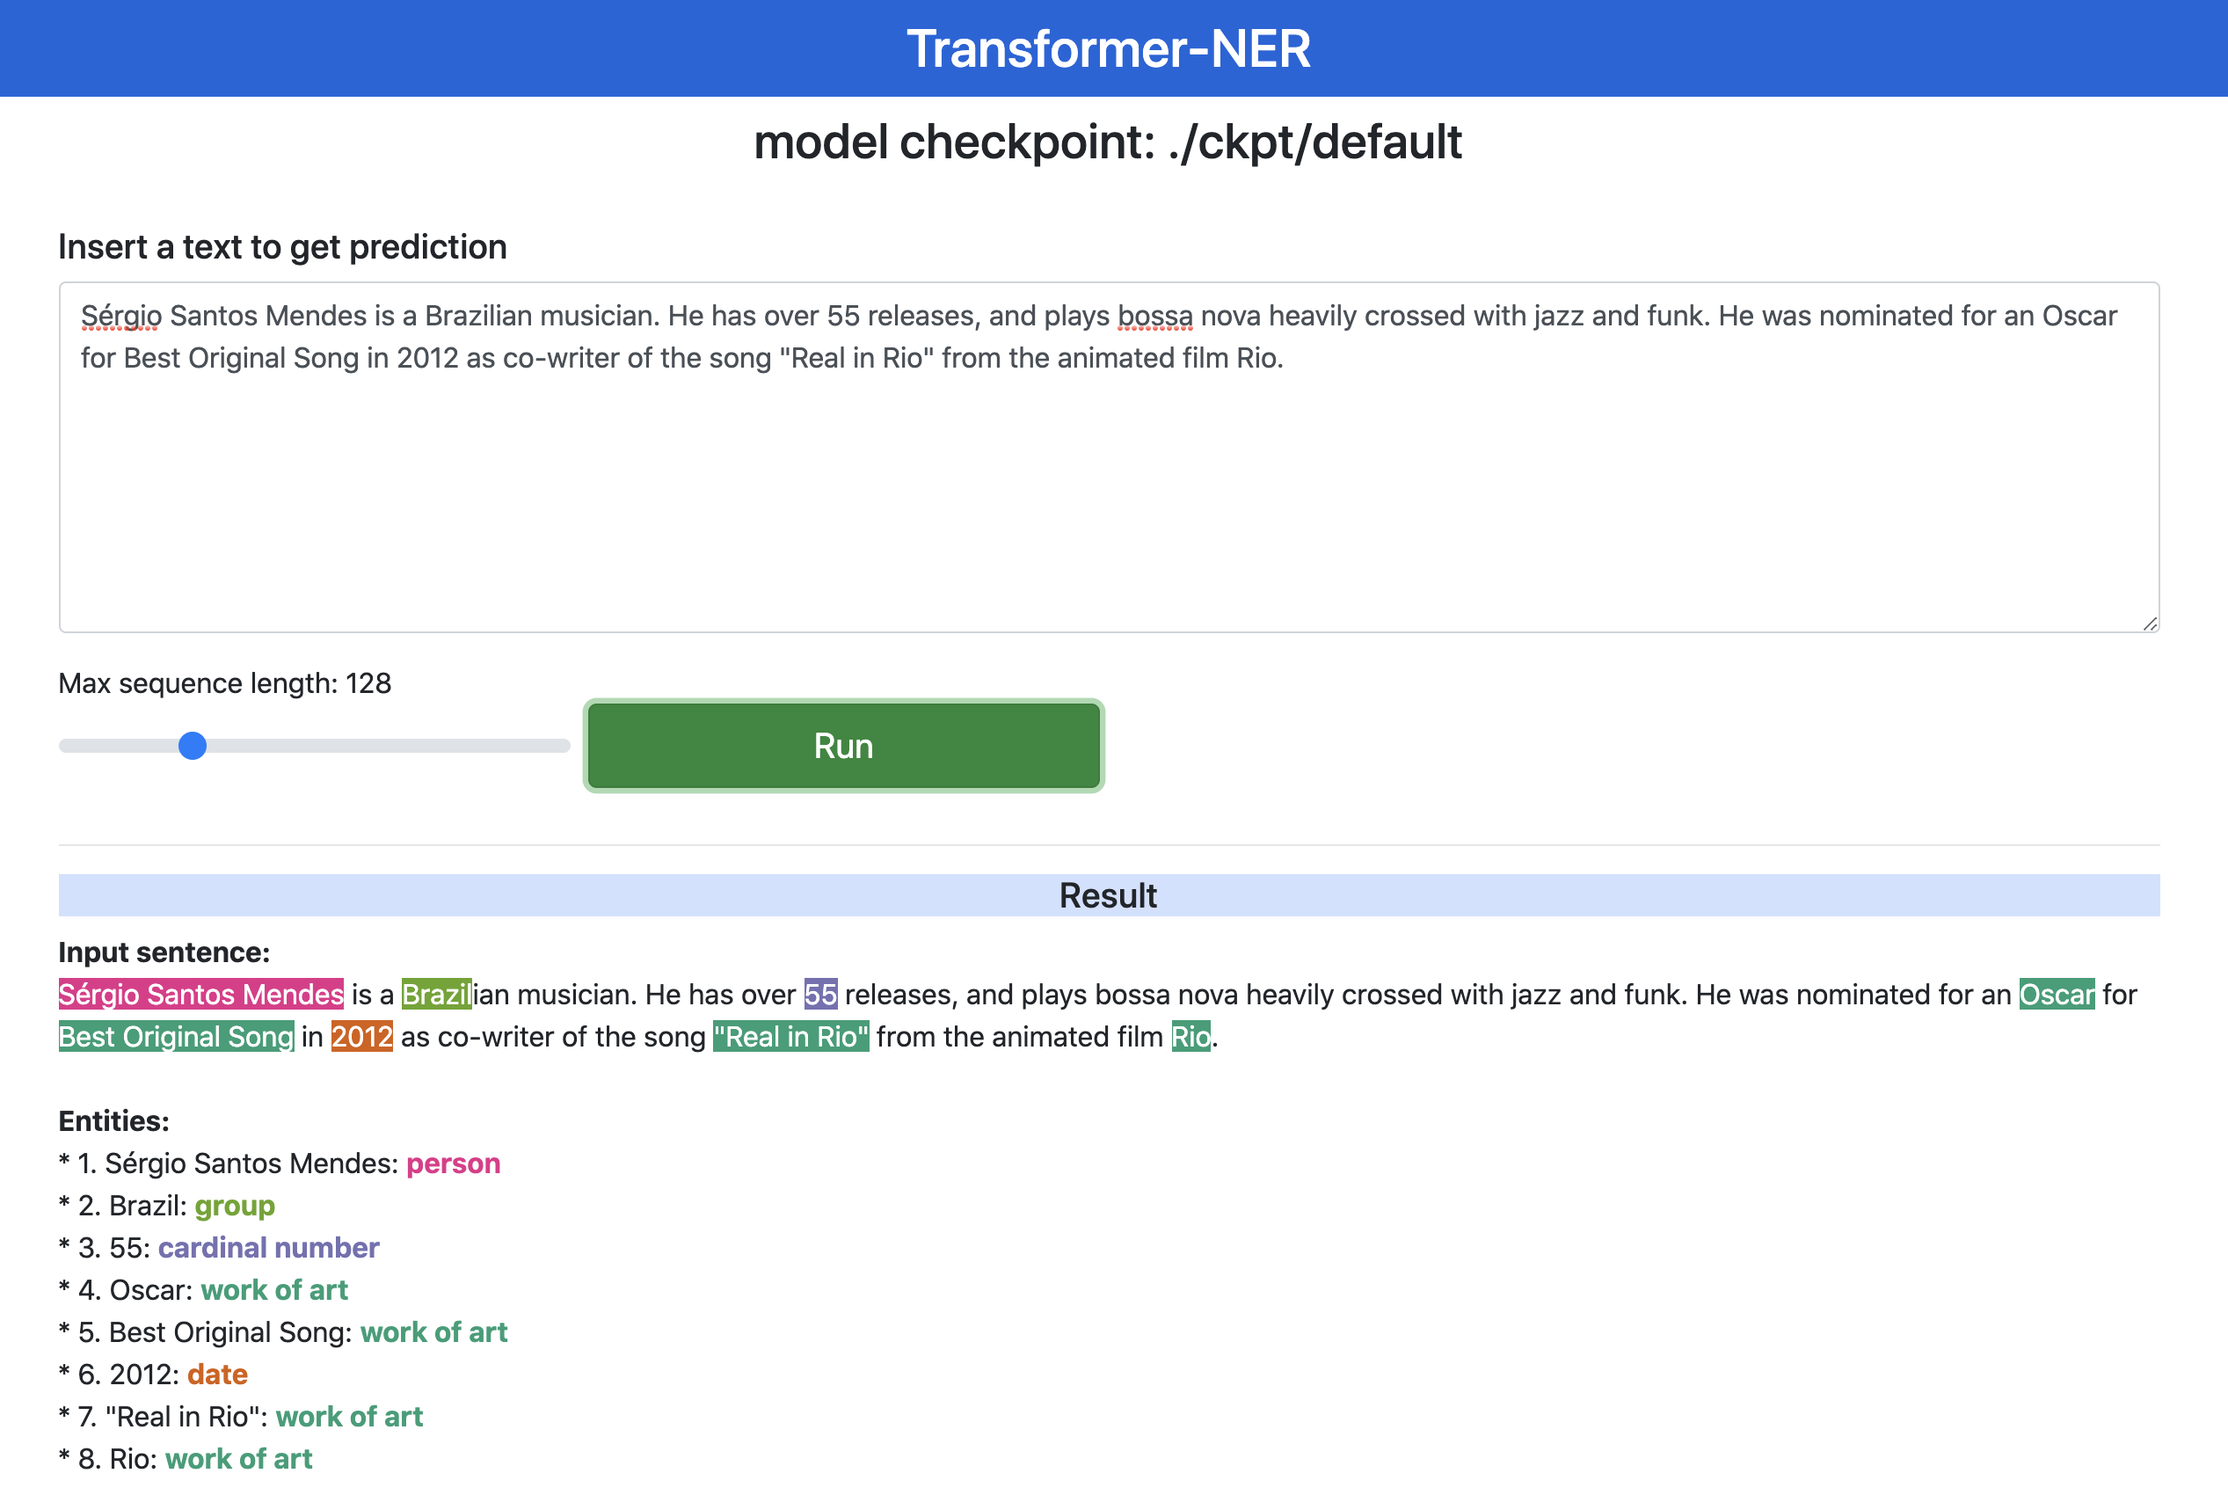
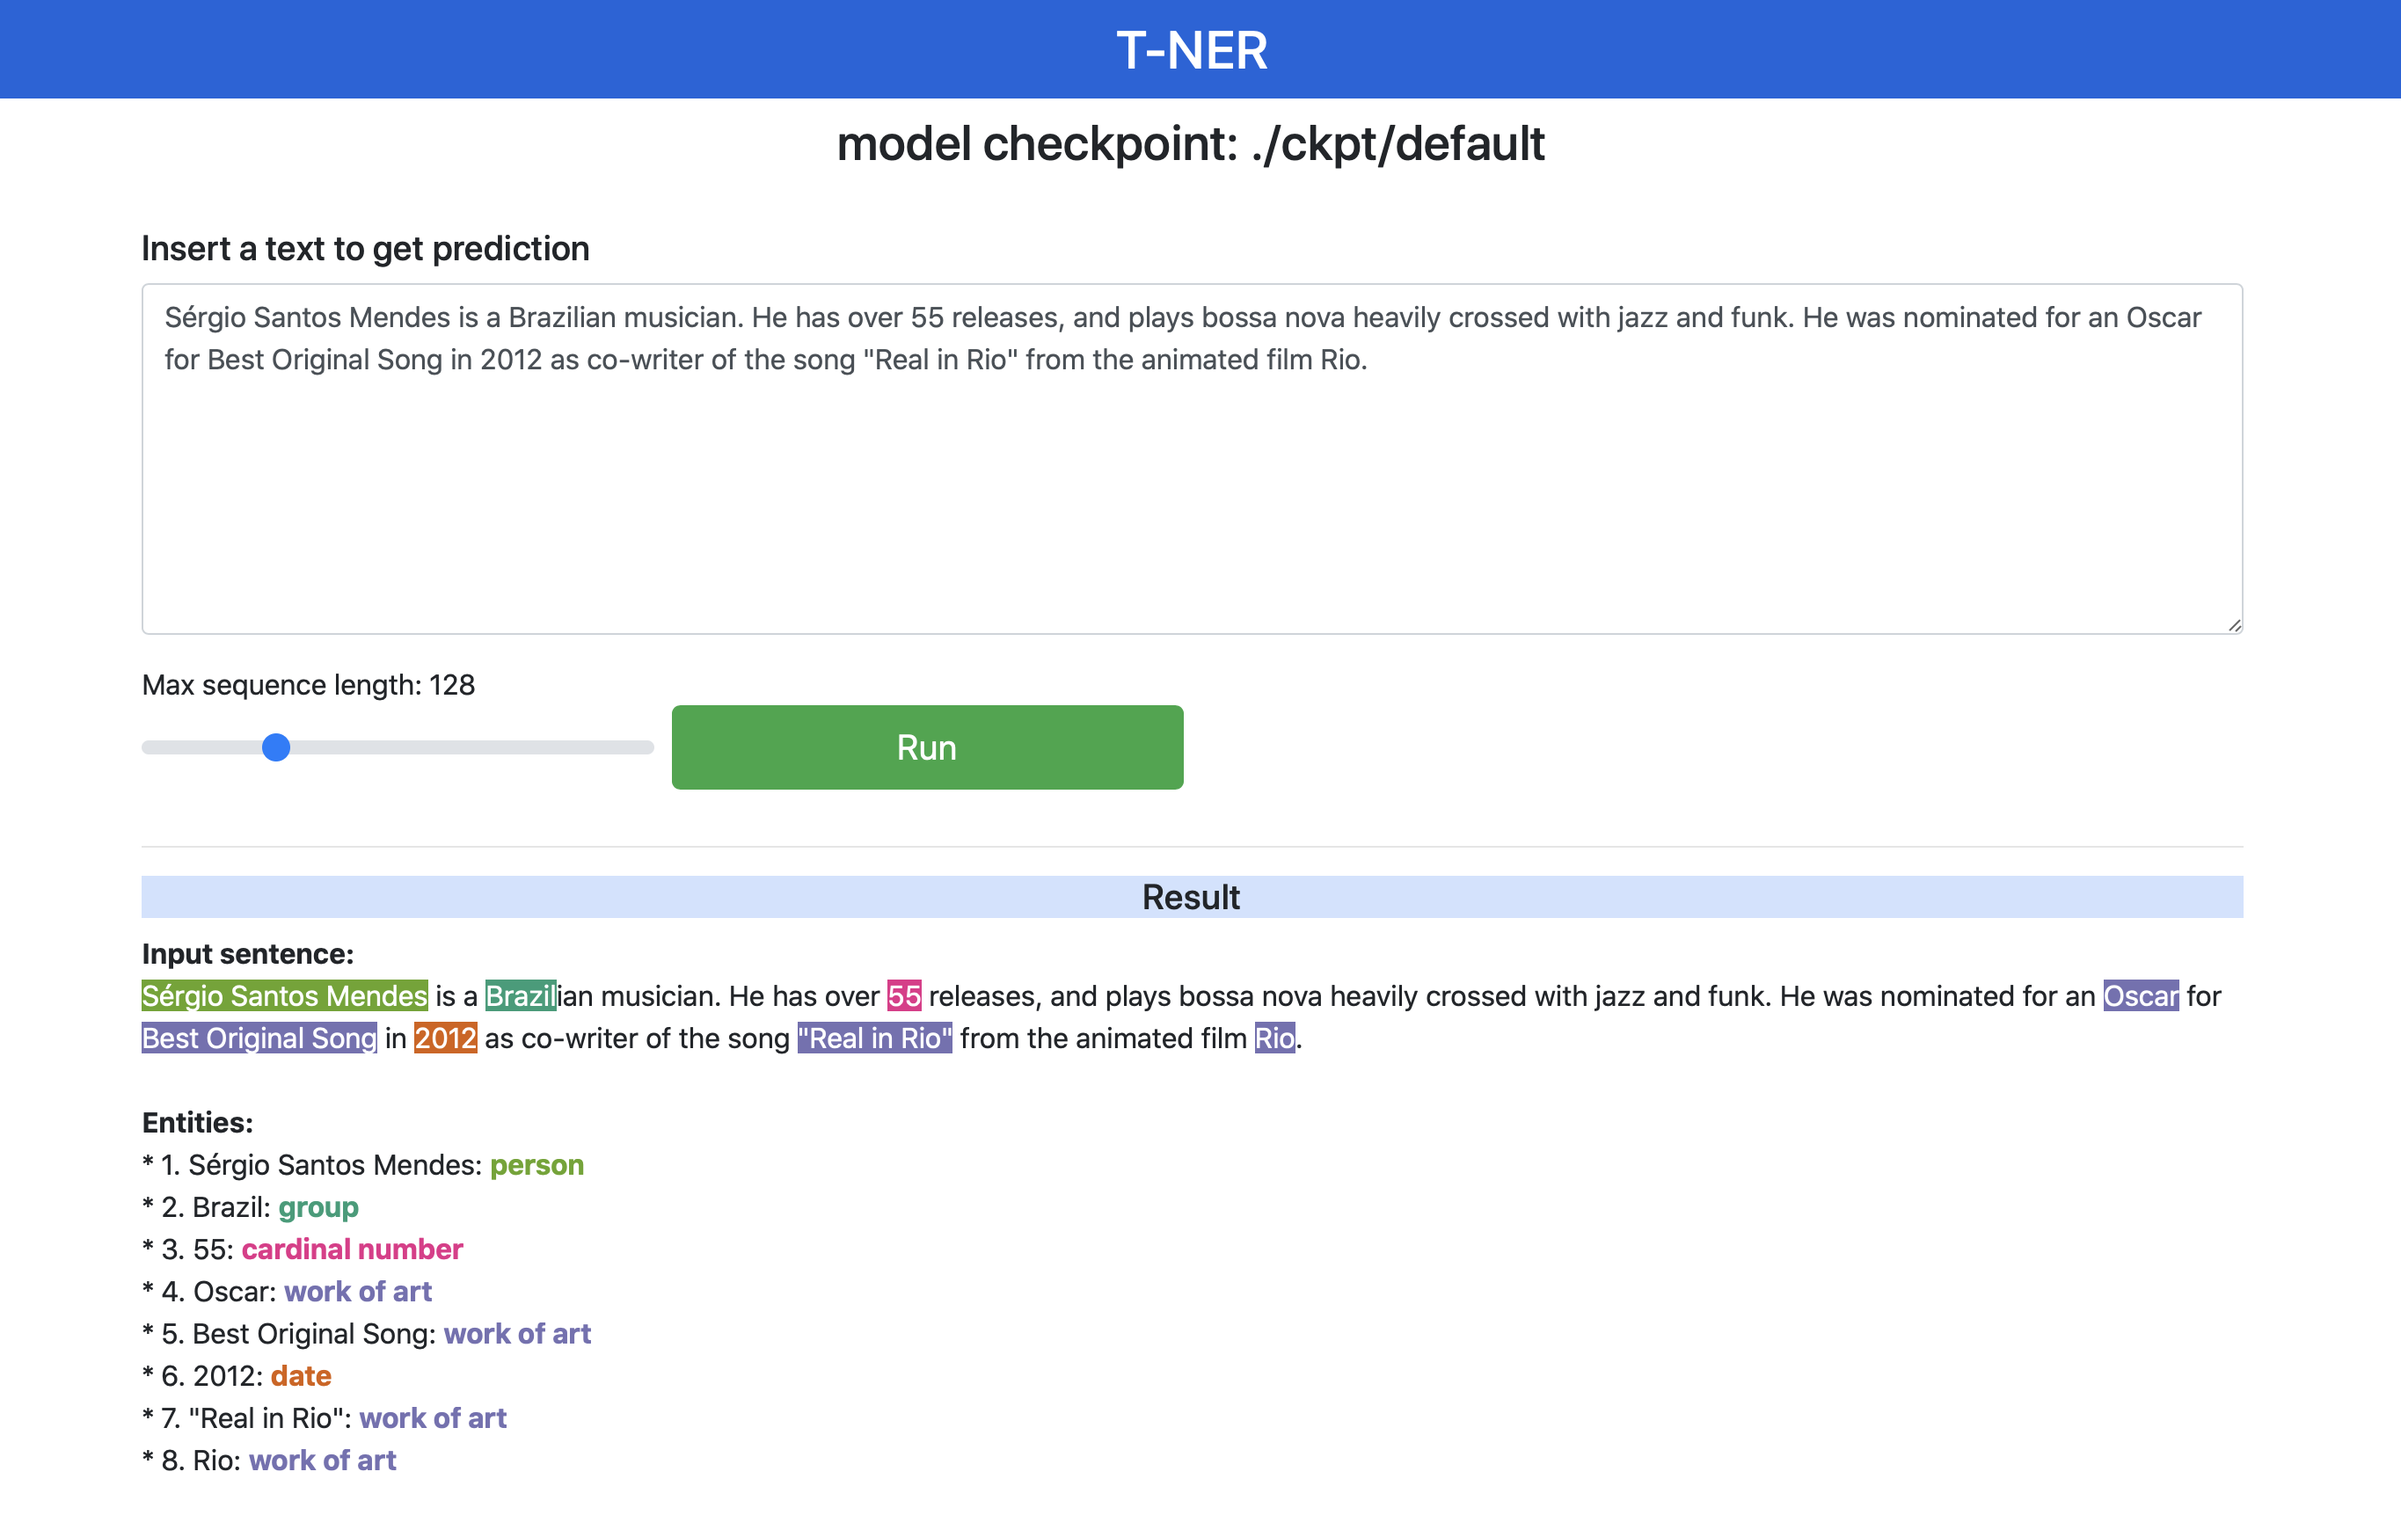
add setup file

diff --git a/templates/index.html b/templates/index.html
@@ -2,7 +2,7 @@
 <html lang="en">
 
 <head>
-    <title> Transformers-NER </title>
+    <title> T-NER </title>
     <meta charset="utf-8">
     <meta name="viewport" content="width=device-width, initial-scale=1">
     <link href="{{url_for('static', path='css/bootstrap.min.css')}}" rel=" stylesheet">
@@ -19,7 +19,7 @@
     <div class="overlay">
         <div class="spinner-border text-primary" role="status"><span class="sr-only">Loading...</span></div>
     </div>
-    <h2> Transformers-NER </h2>
+    <h2> T-NER </h2>
     <div class="row">
         <div class="col-sm-1"></div>
 
